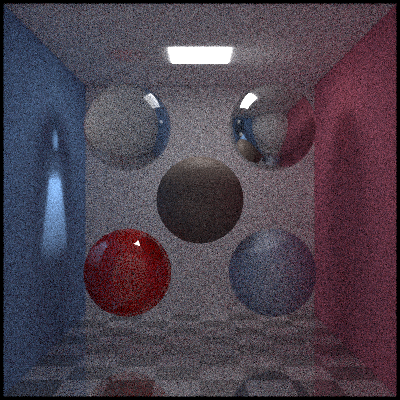
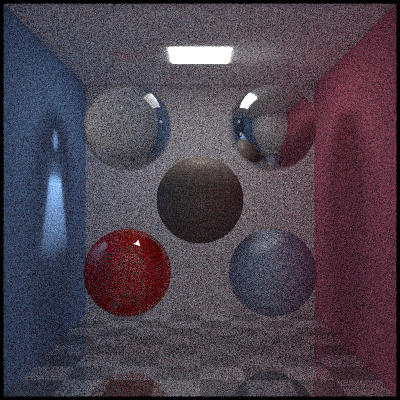
Created objects check

diff --git a/src/scene-parser.hpp b/src/scene-parser.hpp
@@ -124,7 +124,10 @@ namespace art {
 		Material* ParseMaterial(std::string materialName, Scene &scene) {
 			std::unique_ptr<Material> result;
 
-			// check if material with that name already in map !TO DO
+			// check if material with that name already created
+			if (m_parsedMaterials.find(materialName) != m_parsedMaterials.end()) {
+				return m_parsedMaterials[materialName];
+			}
 
 			ErrorCheck(m_file, "materials");
 			YAML::Node materials = m_file["materials"];
@@ -191,12 +194,18 @@ namespace art {
 			}
 
 			Material *ptr = result.get();
+			m_parsedMaterials[materialName] = ptr;
 			scene.AddMaterial(std::move(result));
 			return ptr;
 		}
 
 		Texture* ParseTexture(std::string textureName, Scene &scene) {
 			std::unique_ptr<Texture> result;
+
+			// check if texture with that name already created
+			if (m_parsedTextures.find(textureName) != m_parsedTextures.end()) {
+				return m_parsedTextures[textureName];
+			}
 
 			ErrorCheck(m_file, "textures");
 			YAML::Node textures = m_file["textures"];
@@ -231,6 +240,7 @@ namespace art {
 			}
 
 			Texture *ptr = result.get();
+			m_parsedTextures[textureName] = ptr;
 			scene.AddTexture(std::move(result));
 			return ptr;
 		}
@@ -243,6 +253,11 @@ namespace art {
 		}
 
 		YAML::Node m_file;
+
+		// need these containers to check if parsed object already exists
+		// Scene object is owner of these, so we dont delete them in destructor
+		std::unordered_map<std::string, Material*> m_parsedMaterials;
+		std::unordered_map<std::string, Texture*> m_parsedTextures;
 	};
 
 }
